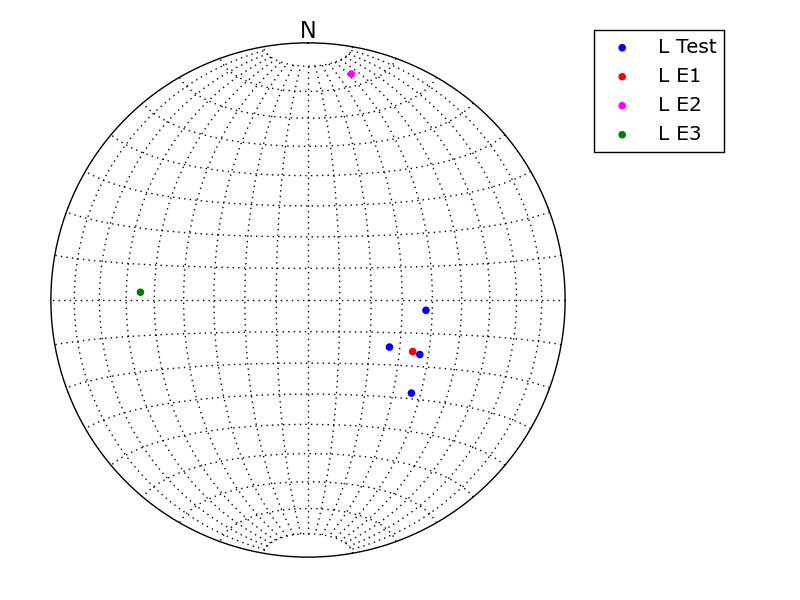
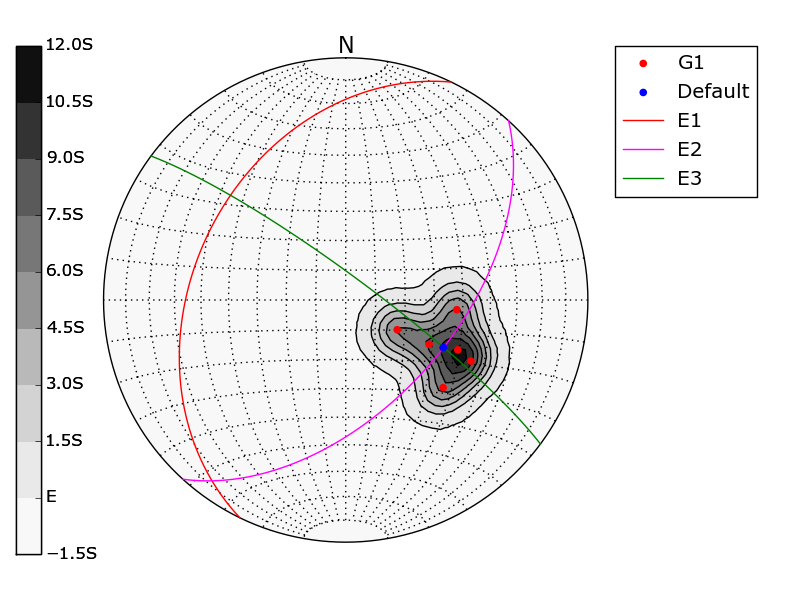
Readme updated

diff --git a/apsg.py b/apsg.py
@@ -481,7 +481,7 @@ class Group(list):
             for e in self:
                 for f in other:
                     res.append(e**f)
-        elif issubclass(other, Vec3):
+        elif issubclass(type(other), Vec3):
             for e in self:
                 res.append(e**other)
         else:
@@ -509,7 +509,7 @@ class Group(list):
             for e in self:
                 for f in other:
                     res.append(e.angle(f))
-        elif issubclass(other, Vec3):
+        elif issubclass(type(other), Vec3):
             for e in self:
                 res.append(e.angle(other))
         else:
@@ -791,17 +791,17 @@ class Ortensor(object):
     @property
     def eigenlins(self):
         v1, v2, v3 = self.eigenvects
-        d1 = Dataset(v1.aslin, name='E1', color='red')
-        d2 = Dataset(v2.aslin, name='E2', color='magenta')
-        d3 = Dataset(v3.aslin, name='E3', color='green')
+        d1 = Group(v1.aslin, name='E1', color='red')
+        d2 = Group(v2.aslin, name='E2', color='magenta')
+        d3 = Group(v3.aslin, name='E3', color='green')
         return d1, d2, d3
 
     @property
     def eigenfols(self):
         v1, v2, v3 = self.eigenvects
-        d1 = Dataset(v1.asfol, name='E1', color='red')
-        d2 = Dataset(v2.asfol, name='E2', color='magenta')
-        d3 = Dataset(v3.asfol, name='E3', color='green')
+        d1 = Group(v1.asfol, name='E1', color='red')
+        d2 = Group(v2.asfol, name='E2', color='magenta')
+        d3 = Group(v3.asfol, name='E3', color='green')
         return d1, d2, d3
 
 
@@ -980,7 +980,7 @@ class SchmidtNet(object):
                     #labels.append('P ' + dt.name)
                 #vector point
                 elif dt.type == Vec3:
-                    x, y = np.array([e.xy for e in dt]).T
+                    x, y = np.array([e.aslin.xy for e in dt]).T
                     h = self.ax.scatter(x, y, color=dt.color, zorder=3, **dt.sym['vec'])
                     handles.append(h)
                     #labels.append('V ' + dt.name)

diff --git a/README.md b/README.md
@@ -88,12 +88,12 @@ Method `rotate` provide possibility to rotate vector around another vector. For 
 V(2.248, 0.558, 2.939)
 ~~~~
 
-Classes Fol a Lin
-=================
+Classes Lin, Fol and Pole
+=========================
 
 To work with orientational data in structural geology, APSG provide two classes derived from `Vec3` class. There is `Fol` class to represent planar features by planes and `Lin` class to represent linear feature by lines. Both classes provide all `Vec3` methods, but they differ in way how instance is created and how some operations are calculated, as structural geology data are commonly axial in nature. The special class `Pole` is derived from `Fol` and only differs in way how it is visualized on stereographic projection.
 
-To create instance of `Fol` or `Lin` class, we have to provide dip direction and dip, both in degrees:
+To create instance of `Lin`, `Fol` or `Pole` class, we have to provide dip direction and dip, both in degrees:
 
 ~~~~ {.python}
 >>> Lin(120,60)
@@ -115,8 +115,8 @@ S:117/37
 P:117/37
 ~~~~
 
-Vec3 methods for Fol a Lin
---------------------------
+Vec3 methods for Lin, Fol and Pole
+----------------------------------
 
 To find angle between two linear or planar features:
 
@@ -168,73 +168,57 @@ To rotate structural features we can use method `rotate`:
 S:269/78
 ~~~~
 
-Dataset class
-=============
+Group class
+===========
 
-`Dataset` class serve as list or container of `Fol` or `Lin` objects. It allows grouping of features either for visualization or batch analysis.
-
-~~~~ {.python}
->>> d = Dataset(name='Test data')
->>> for dd in [Lin(120,60), Lin(116,50), Lin(132,45), Fol(90,60), Fol(84,52
-)]:
-...     d.append(dd)
-... 
->>> print(d)
-Test data:[L:120/60, L:116/50, L:132/45, S:90/60, S:84/52]
-~~~~
-
-Same dataset could be created in simple way as:
+`Group` class serve as a homogeneous container for `Lin`, `Fol` or `Pole` objects. It allows grouping of features either for visualization or batch analysis.
 
 ~~~~ {.python}
->>> d = Dataset([Lin(120,60), Lin(116,50), Lin(132,45),
-...              Fol(90,60), Fol(84,52)], name='Test data')
+>>> d = Group([Lin(120,60), Lin(116,50), Lin(132,45),
+...            Lin(90,60), Lin(84,52)], name='L1')
 ... 
 >>> print(d)
-Test data:[L:120/60, L:116/50, L:132/45, S:90/60, S:84/52]
+L1: 5 Lin
 ~~~~
 
-Method `len` returns number of features in dataset:
+Method `len` returns number of features in group:
 
 ~~~~ {.python}
 >>> len(d)
 5
 ~~~~
 
-To select only linear or planar features we can use methods `lins` and `fols`. Properties `numlins` a `numfols` gives number of linear or planar features in dataset.
+Property `resultant` gives mean or resultant of all features in group:
 
 ~~~~ {.python}
->>> d.lins
-Test data:[L:120/60, L:116/50, L:132/45]
->>> d.numlins
-3
->>> d.fols
-Test data:[S:90/60, S:84/52]
->>> d.numfols
-2
+>>> d.resultant
+L:110/55
 ~~~~
 
-Another property of dataset is `resultant`,which returns mean or resultant of all features in dataset:
+To measure angles between all features in group and another feature, we can use method `angle`:
 
 ~~~~ {.python}
->>> d.lins.resultant
-L:123/52
->>> d.fols.resultant
-S:87/56
-~~~~
-
-To measure angles between all features in dataset and another feature, we can use method `angle`:
-
-~~~~ {.python}
->>> d = Dataset([Lin(120,60), Lin(116,50), Lin(132,45), Lin(95,52)])
 >>> d.angle(d.resultant)
-array([  7.74624256,   2.54411184,  12.80183755,  12.94898331])
+array([  7.60329482,   6.24648167,  17.37186861,  11.6536752 ,  15.3996262 
+])
 ~~~~
 
-To rotate all features in dataset around another feature, we can use method `rotate`:
+To rotate all features in group around another feature, we can use method `rotate`:
 
 ~~~~ {.python}
->>> d.rotate(l1, 45)
-R-Default:[L:90/57, L:103/50, L:120/55, L:89/41]
+>>> d.rotate(Lin(150, 30), 45)
+L1: 5 Lin
+~~~~
+
+To calculate orientation tensor of all features in group, we can use method `ortensor`:
+
+~~~~ {.python}
+>>> d.ortensor
+Ortensor:
+(E1:4.77,E2:0.2011,E3:0.02874)
+[[ 0.36990905 -0.48027385 -0.71621555]
+ [-0.48027385  1.42230591  2.10464496]
+ [-0.71621555  2.10464496  3.20778504]]
 ~~~~
 
 Ortensor class
@@ -245,14 +229,14 @@ Ortensor class
 ~~~~ {.python}
 >>> ot = Ortensor(d)
 >>> ot.eigenvals
-(0.97013794785464802, 0.02383853819460446, 0.006023513950748253)
+(0.95403846865963882, 0.040212749461964618, 0.0057487818783964056)
 >>> ot.eigenvects
-(V(0.269, -0.545, -0.794), V(-0.962, -0.185, -0.199), V(0.038, -0.818, 0.57
-5))
+(V(0.192, -0.542, -0.818), V(-0.981, -0.082, -0.176), V(-0.028, -0.836, 0.5
+47))
 >>> ot.eigenlins
-(E1:[L:116/53], E2:[L:11/11], E3:[L:273/35])
+(E1: 1 Lin, E2: 1 Lin, E3: 1 Lin)
 >>> ot.eigenfols
-(E1:[S:296/37], E2:[S:191/79], E3:[S:93/55])
+(E1: 1 Fol, E2: 1 Fol, E3: 1 Fol)
 ~~~~
 
 Density class
@@ -263,26 +247,26 @@ Density class
 ~~~~ {.python}
 >>> c = Density(d, npoints=90)
 >>> c
-Density grid from 4 data with 6 contours.
+Density grid from 5 data with 6 contours.
 Gridded on 90 points.
-Values: k=100 E=0.04 s=0.14
-Max. weight: 1.443
+Values: k=100 E=0.05 s=0.1565
+Max. weight: 1.422
 >>> c.plotcountgrid()
 ~~~~
 
-![](figures/apsg_figure26_1.png)
+![](figures/apsg_figure25_1.png)
 
 Schmidt projection
 ==================
 
-Any `Fol`, `Lin`, `Pole`, `Vec3` or `Dataset` object could be visualized in Schmidt projection:
+Any `Fol`, `Lin`, `Pole`, `Vec3` or `Group` object could be visualized in Schmidt projection:
 
 ~~~~ {.python}
 >>> SchmidtNet(Fol(214,55), Lin(120,60), Pole(240,60), Vec3([-1,-2,1]))
-<apsg.SchmidtNet object at 0x7f1fcfde2290>
+<apsg.SchmidtNet object at 0x7f071f0bdf50>
 ~~~~
 
-![](figures/apsg_figure27_1.png)
+![](figures/apsg_figure26_1.png)
 
 Features could be added to Schmidt projection programatically as well:
 
@@ -294,28 +278,28 @@ Features could be added to Schmidt projection programatically as well:
 >>> s.show()
 ~~~~
 
-![](figures/apsg_figure28_2.png)
+![](figures/apsg_figure27_2.png)
 
 `Dataset` properties as color and name are used during visualization:
 
 ~~~~ {.python}
 >>> s.clear()
->>> d = Dataset([Lin(120,60), Lin(116,50), Lin(132,45), Lin(95,52)], name='
-Test')
+>>> d = Group([Lin(120,60), Lin(116,50), Lin(132,45), Lin(95,52)], name='Te
+st')
 >>> s.add(d)
 >>> s.add(d.ortensor)
 >>> s.show()
 ~~~~
 
-![](figures/apsg_figure29_2.png)
+![](figures/apsg_figure28_2.png)
 
 All mentioned classes could be freely combined:
 
 ~~~~ {.python}
 >>> s.clear()
->>> d = Dataset([Lin(120,70), Lin(116,42), Lin(132,45),
+>>> d = Group([Lin(120,70), Lin(116,42), Lin(132,45),
 ...              Lin(95,52), Lin(114,48), Lin(118,58) ],
-...              name='Test data', color='red')
+...              name='G1', color='red')
 ... 
 >>> s.add(d)
 >>> s.add(d.resultant)
@@ -325,7 +309,7 @@ All mentioned classes could be freely combined:
 >>> s.show()
 ~~~~
 
-![](figures/apsg_figure30_2.png)
+![](figures/apsg_figure29_2.png)
 
 Some tricks
 -----------
@@ -336,25 +320,23 @@ Double cross product is allowed:
 >>> s.clear()
 >>> p = Fol(250,40)
 >>> l = Lin(160,30)
->>> d = Dataset([p,l], color='blue', fol={'lw': 2}, lin={'s': 60})
->>> d1 = Dataset([l**p, p**l], name='1CP', color='red')
->>> d2 = Dataset([p**l**p, l**p**l], name='2CP', color='green')
->>> s.add(d, d1, d2)
+>>> s.add(p,l)
+>>> s.add(l**p,p**l)
+>>> s.add(l**p**l,p**l**p)
 >>> s.show()
 ~~~~
 
-![](figures/apsg_figure31_2.png)
+![](figures/apsg_figure30_2.png)
 
 Correct measurements of planar linear pairs:
 
 ~~~~ {.python}
 >>> p1, l1 = fixpair(p,l)
 >>> s.clear()
->>> d = Dataset([p, l], name='Original', color='blue')
->>> d1 = Dataset([p1, l1], name='Fixed', color='green')
->>> s.add(d, d1)
+>>> s.add(p,l)
+>>> s.add(p1,l1)
 >>> s.show()
 ~~~~
 
-![](figures/apsg_figure32_2.png)
+![](figures/apsg_figure31_2.png)
 
